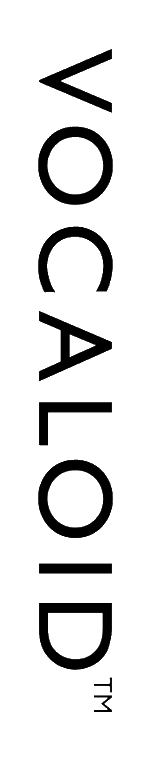
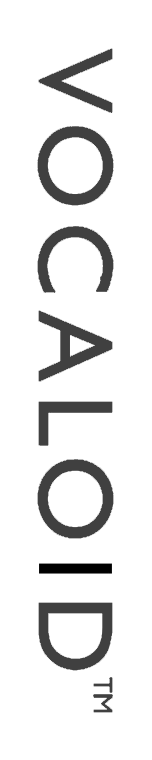
画像の調整

Changed region(s): [[0.2368, 0.0605, 0.7632, 0.7263], [0.2368, 0.7868, 0.7632, 0.9382]]

diff --git a/css/SideDeco.css b/css/SideDeco.css
@@ -2,15 +2,15 @@
 
 .sidefix-deco {
     left: 0;
-    max-height: calc(200vh - 80px);
+    max-height: calc(90vh - 80px);
     max-width: 100px;
-    mix-blend-mode: hard-light;
+    mix-blend-mode:difference;
     position: fixed;
     top: 80px;
     z-index: 4;
 }
 .sidefix-deco>.image {
-    aspect-ratio: 550 / 2560;
+
     height: 300%;
-    max-height: calc(200vh - 54px);
+    max-height: calc(90vh - 54px);
 }

diff --git a/js/SideDeco.js b/js/SideDeco.js
@@ -5,4 +5,4 @@ link = [
 ]
 var num = link.length;
 r = Math.floor(Math.random()*num);
-document.write(`<div class="sidefix-deco" ><img class="ha-image image" src=`+`"${link[r]}"`+`></div>`);
+document.write(`<div class="sidefix-deco" ><img class="ha-image image" src=`+`"${link[r]}"`+` ></div>`);
